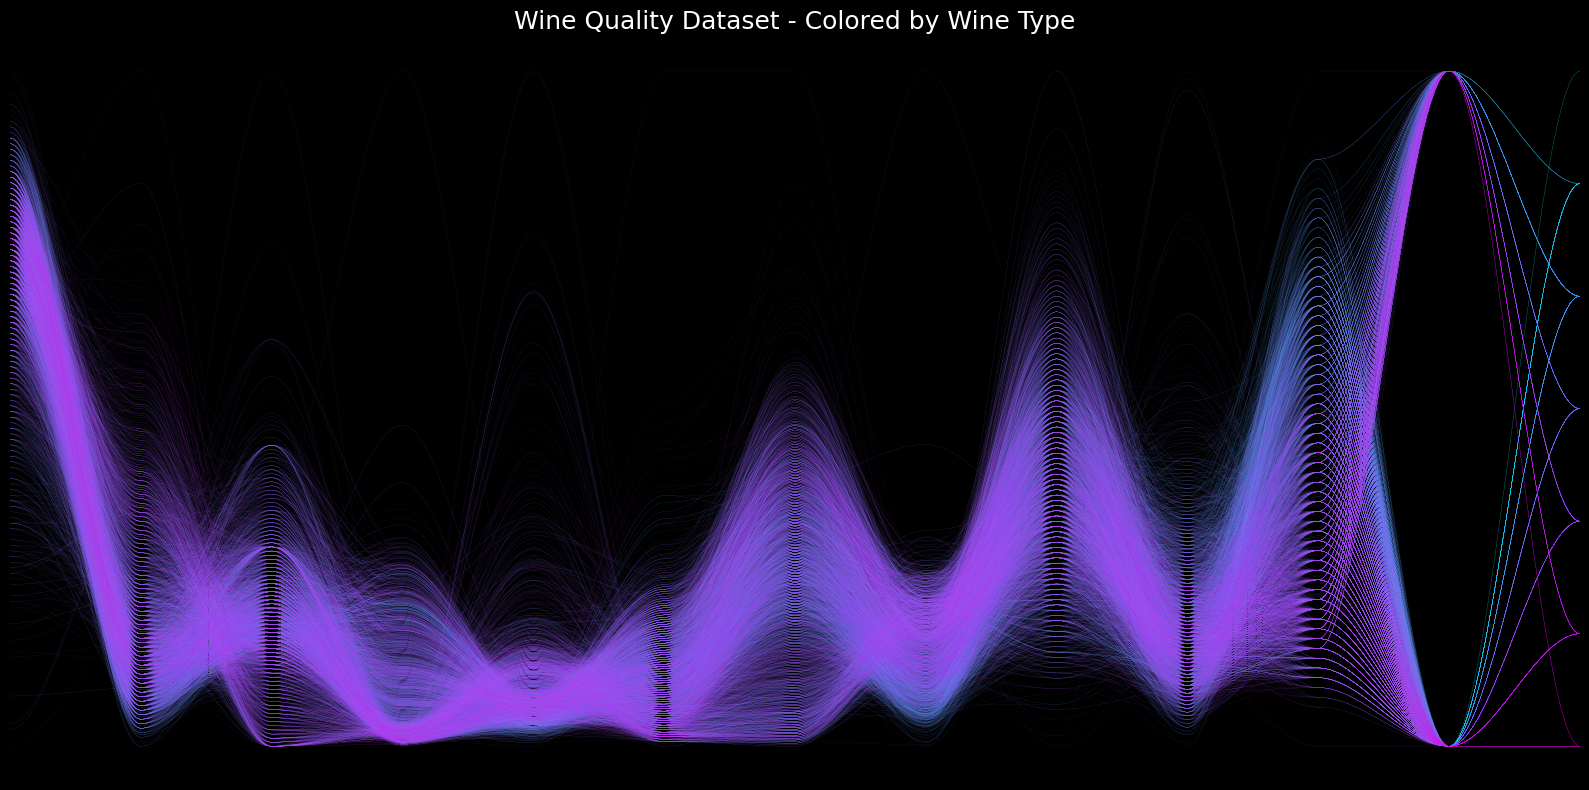
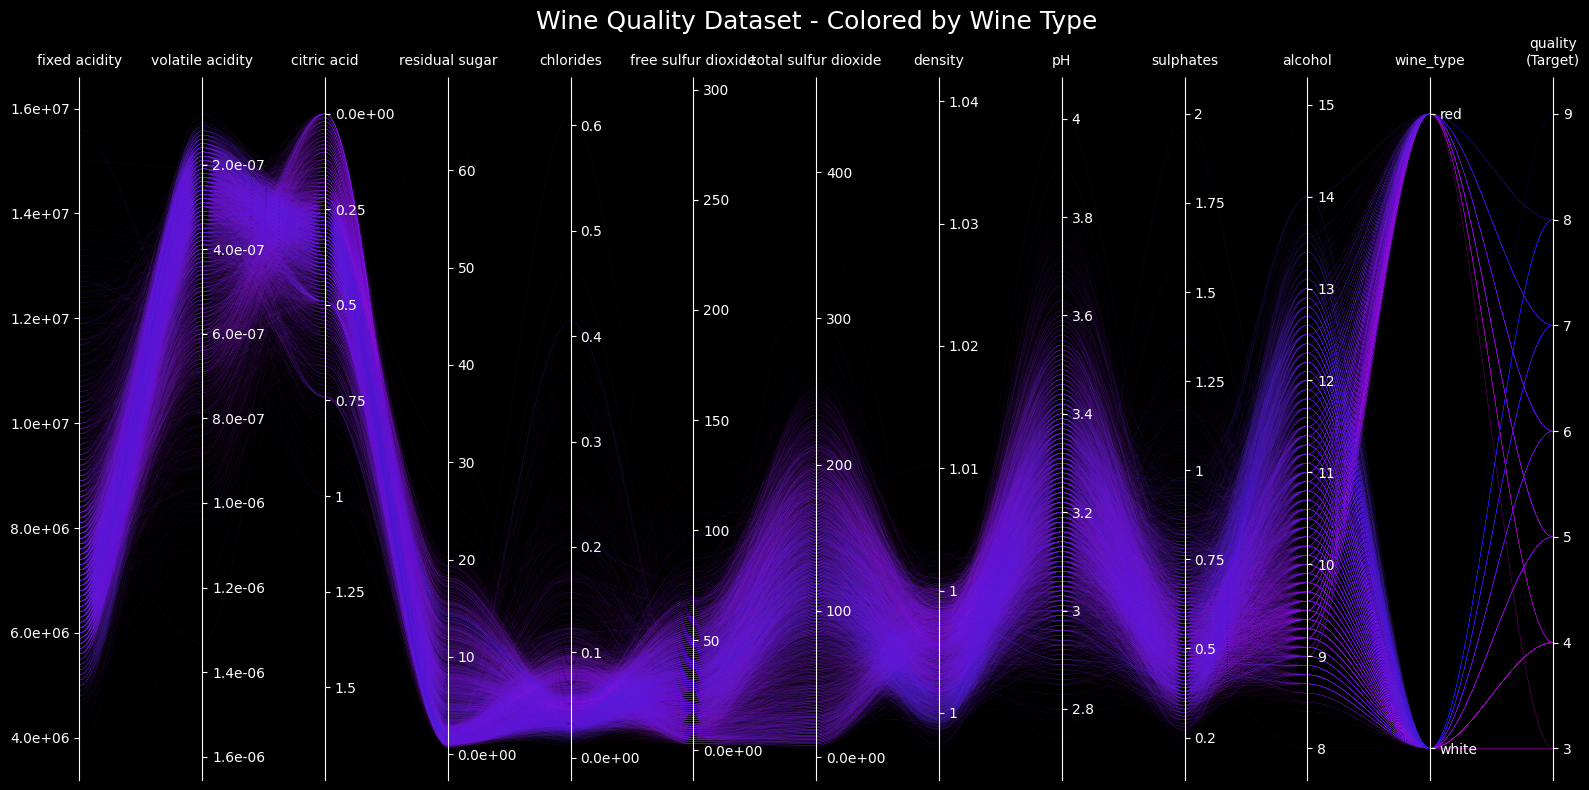
Improved readme

diff --git a/README.md b/README.md
@@ -1,22 +1,36 @@
-To install run
+# Generating nice smooth parallel plots!
 
-``pip install parallelplot``
+<img src="https://raw.githubusercontent.com/markste-in/parallelplot/refs/heads/main/README_files/output_9_0.png" height="200" />&nbsp;
+<img src="https://raw.githubusercontent.com/markste-in/parallelplot/refs/heads/main/README_files/https://raw.githubusercontent.com/markste-in/parallelplot/refs/heads/main/README_files/output_13_0.png" height="200" />
+
+## How to install
+
+Just run
+
+```shell
+pip install parallelplot
+```
+
+## Little Demo on the Wine Quality Dataset
+
+### First lets import some packages we need to get some sample data
 
 
 ```python
-"""
-Parallel Plot Demo with Wine Quality Dataset
-
-"""
-
-# Import libraries
+# Import libraries to handle data 
 import numpy as np
 import pandas as pd
-import matplotlib.pyplot as plt
-import matplotlib.cm as cm
 
+# The only thing that is really needs to be imported 
+# is the plot function from the parallelplot module 
+# and the pyplot module from matplotlib to display the plot
 import parallelplot.plot as pp
+import matplotlib.pyplot as plt
+
+
+# There is also a module that contains a nice colormap. In addition you can use the matplotlib colormap module
 from parallelplot.cmaps import purple_blue
+import matplotlib.cm as cm
 
 ```
 
@@ -282,6 +296,8 @@ wine_df["fixed acidity"] = wine_df["fixed acidity"] * 1e6
 wine_df["volatile acidity"] = wine_df["volatile acidity"] / 1e6
 ```
 
+## Create the plots from the imported data!
+
 
 ```python
 # Example 1: Basic parallel plot with default style
@@ -303,7 +319,7 @@ plt.show()
 
 
     
-![png](https://raw.githubusercontent.com/markste-in/parallelplot/refs/heads/main/README_files/output_5_0.png)
+![png](https://raw.githubusercontent.com/markste-in/parallelplot/refs/heads/main/README_files/output_8_0.png)
     
 
 
@@ -324,7 +340,7 @@ plt.show()
 
 
     
-![png](https://raw.githubusercontent.com/markste-in/parallelplot/refs/heads/main/README_files/output_6_0.png)
+![png](https://raw.githubusercontent.com/markste-in/parallelplot/refs/heads/main/README_files/output_9_0.png)
     
 
 
@@ -349,7 +365,7 @@ plt.show()
 
 
     
-![png](https://raw.githubusercontent.com/markste-in/parallelplot/refs/heads/main/README_files/output_7_0.png)
+![png](https://raw.githubusercontent.com/markste-in/parallelplot/refs/heads/main/README_files/output_10_0.png)
     
 
 
@@ -381,7 +397,7 @@ plt.show()
 
 
     
-![png](https://raw.githubusercontent.com/markste-in/parallelplot/refs/heads/main/README_files/output_8_0.png)
+![png](https://raw.githubusercontent.com/markste-in/parallelplot/refs/heads/main/README_files/output_11_0.png)
     
 
 
@@ -404,7 +420,7 @@ plt.show()
 
 
     
-![png](https://raw.githubusercontent.com/markste-in/parallelplot/refs/heads/main/README_files/output_9_0.png)
+![png](https://raw.githubusercontent.com/markste-in/parallelplot/refs/heads/main/README_files/output_12_0.png)
     
 
 
@@ -430,6 +446,6 @@ plt.show()
 
 
     
-![png](https://raw.githubusercontent.com/markste-in/parallelplot/refs/heads/main/README_files/output_10_0.png)
+![png](https://raw.githubusercontent.com/markste-in/parallelplot/refs/heads/main/README_files/output_13_0.png)
     
 
